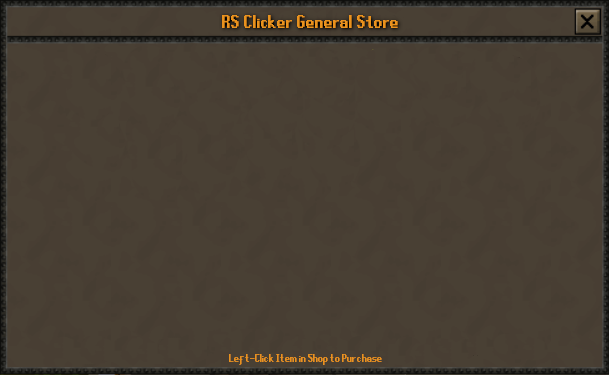
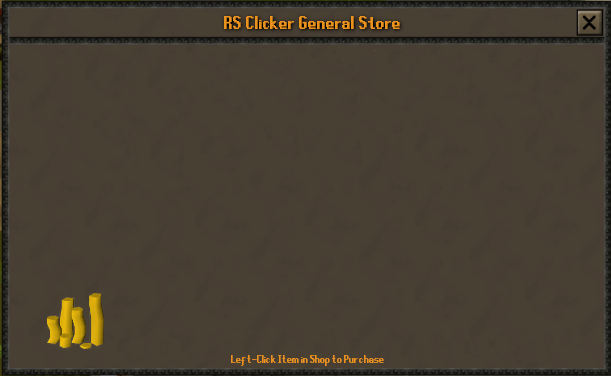
Adding item images to be used in the shop

diff --git a/source/level.js b/source/level.js
@@ -45,7 +45,6 @@ export class Level extends Phaser.Scene{
                 wizard: 0
             }
         }
-        //TODO: Add currentLevel field to know which level to go back to when closing store / other interfaces 
     };
     // Autoclickers
     autoClickers = [];
@@ -77,6 +76,8 @@ export class Level extends Phaser.Scene{
         this.minimap = data.minimap;
         //this.enemySettings = data.enemy;
         this.enemyMetadata = data.enemies;
+        // Store current level to return to after leaving shop
+        this.currentLevel = data.key;
     }
 
     init(characterData) {
@@ -104,7 +105,7 @@ export class Level extends Phaser.Scene{
             this.load.image(enemy.name, enemy.path);
         });
 
-        //Hitsplats
+        // Hitsplats
         this.load.image('blue-hitsplat', 'source/assets/BlueHitsplat.png');
         this.load.image('red-hitsplat', 'source/assets/RedHitsplat.png');
 
@@ -113,6 +114,7 @@ export class Level extends Phaser.Scene{
         this.load.image(CONSTANTS.CLASS.WARRIOR, 'source/assets/sprites/Warrior.png');
         this.load.image(CONSTANTS.CLASS.RANGER, 'source/assets/sprites/Ranger.png');
         this.load.image(CONSTANTS.CLASS.MAGE, 'source/assets/sprites/Mage.jpg');
+
     }
 
     create(){
@@ -136,6 +138,19 @@ export class Level extends Phaser.Scene{
             this.enemyObjects = [];
             this.scene.start(CONSTANTS.SCENES.MAP, this.characterData); 
             console.log("Going to World Map");     
+        })
+
+        this.shopButton = this.add.text(585, 475, 'Shop').setInteractive();
+        this.shopButton.on("pointerup", ()=>{
+            for (let i = 0; i < this.autoClickers.length; i++) {
+                this.autoClickers[i].release();
+            }
+            this.autoClickers = [];
+            this.enemyObjects = [];
+            // Pass in the current level to know which level to return to upon exiting the shop.
+            this.scene.start(CONSTANTS.SCENES.SHOP, [this.characterData, this.currentLevel]);
+            // TODO: Instead of starting a shop scene, just have a shop interface pop up w/o stopping game.
+            console.log("Going to Shop");
         })
 
         // Overlay

diff --git a/source/scenes/shop.js b/source/scenes/shop.js
@@ -1,16 +1,19 @@
 import { CONSTANTS } from "../constants.js";
 
 export class Shop extends Phaser.Scene{
-    characterData = {};
     constructor() {
         super({
             key: CONSTANTS.SCENES.SHOP
         })
     }
-    init(characterData) {
+
+    init(data) {
         // Carry along character data
-        this.characterData = characterData;
+        this.characterData = data[0];
+        this.currentLevel = data[1];
+        this.itemBought = false;
     }
+
     preload(){
         // Background
         this.load.image('shop', 'source/assets/shopInterface.png');
@@ -19,12 +22,46 @@ export class Shop extends Phaser.Scene{
         // TODO: Load images that are available to the player (based on levels)
         // TODO: Show price of each item below the item, and gray out items that are too expensive
     }
+
     create(){
         // Background
-        let shop = this.add.image(0, 0, 'shop').setOrigin(0,0).setDepth(0).setInteractive();
+        this.shop = this.add.image(0, 0, 'shop').setOrigin(0,0).setDepth(0).setInteractive();
 
         // Items
         // TODO: Display items over the blank interface, along with their cost
         // TODO: Each item needs to be a clickable image, and clicking adds the item to player inventory.
+
+        // Available Gold
+        this.goldText = this.add.text(20, 13, 'Gold: ' + this.characterData.gold, {fill: 'white', fontSize: '28px'}).setDepth(3);
+
+        // Exit
+        this.exitButton = this.add.text(500, 0, 'exit').setInteractive();
+        this.exitButton.on("pointerup", ()=>{
+            // Pass in the current level to know which level to return to upon exiting the shop.
+            this.scene.start(this.currentLevel, this.characterData);
+            console.log("Going back to", this.currentLevel);
+        })
+
+    }
+
+    update(){
+        if(this.itemBought) {
+            updateGold();
+            updateShop();
+        }
+    }
+
+
+    loadItems(characterData) {
+        // TODO: Load items based on character level / class (once the character has levels)
+
+    }
+
+    updateGold() {
+
+    }
+
+    updateShop() {
+
     }
 }

diff --git a/source/constants.js b/source/constants.js
@@ -13,5 +13,77 @@ export const CONSTANTS = {
     	WARRIOR: "WARRIOR",
     	MAGE: "MAGE",
     	RANGER: "RANGER"
+    },
+    // Materials Used for Smithing
+    SMITHINGMAT: {
+        BRONZE: "BRONZE",
+        IRON: "IRON",
+        STEEL: "STEEL",
+        MITHRIL: "MITHRIL",
+        ADAMANT: "ADAMANT",
+        RUNE: "RUNE",
+        DRAGON: "DRAGON"
+    },
+    // Items Made from Smithing
+    SMITHINGITEM: {
+        // Tools
+        AXE: "AXE",
+        PICKAXE: "PICKAXE",
+        // Melee Weapons
+        DAGGER: "DAGGER",
+        MACE: "MACE",
+        SCIMITAR: "SCIMITAR",
+        LONGSWORD: "LONGSWORD",
+        WARHAMMER: "WARHAMMER",
+        BATTLEAXE: "BATTLEAXE",
+        TWOHAND: "TWOHAND",
+        HALBERD: "HALBERD",
+        SPEAR: "SPEAR",
+        CLAWS: "CLAWS",  
+        // Ranged Weapons
+        CROSSBOW: "CROSSBOW",
+        KNIFE: "KNIFE",
+        DART: "DART",
+        THROWNAXE: "THROWNAXE",
+    },
+    // Materials Used for Fletching
+    FLETCHINGMAT: {
+        OAK: "OAK",
+        WILLOW: "WILLOW",
+        MAPLE: "MAPLE",
+        YEW: "YEW",
+        MAGIC: "MAGIC"
+    },
+    // Weapons Made from Fletching
+    FLETCHINGITEM: {
+        SHORTBOW: "SHORTBOW",
+        LONGBOW: "LONGBOW",
+        COMPBOW: "COMPBOW",
+    },
+    // Items that are not crafted from traditional smithing or fletching materials
+    SPECIALITEM: {
+        // TOOLS
+        // MELEE WEAPONS
+        MAUL: "MAUL",
+        // RANGED WEAPONS
+        CHINCHOMPA: "CHINCHOMPA",
+        DARKBOW: "DARKBOW",
+        BALLISTA: "BALLISTA",
+        BLOWPIPE: "BLOWPIPE",
+        // Magic Weapons
+        STAFF: "STAFF",
+        AIRSTAFF: "AIRSTAFF",
+        EARTHSTAFF: "EARTHSTAFF",
+        FIRESTAFF: "FIRESTAFF",
+        WATERSTAFF: "WATERSTAFF",
+        BATTLESTAFF: "BATTLESTAFF",
+        MYSTICSTAFF: "MYSTICSTAFF",
+        ANCIENTSTAFF: "ANCIENTSTAFF",
+        GUTHIXSTAFF: "GUTHIXSTAFF",
+        SARADOMINSTAFF: "SARADOMINSTAFF",
+        ZAMORAKSTAFF: "ZAMORAKSTAFF",
+        LUNARSTAFF: "LUNARSTAFF",
+        AHRIMSTAFF: "AHRIMSTAFF",
+        TRIDENT: "TRIDENT",
     }
 }

diff --git a/source/item.js b/source/item.js
@@ -1,0 +1,6 @@
+export class Item {
+    item;
+    damage = 0;
+    material = '';
+    name = '';
+}
